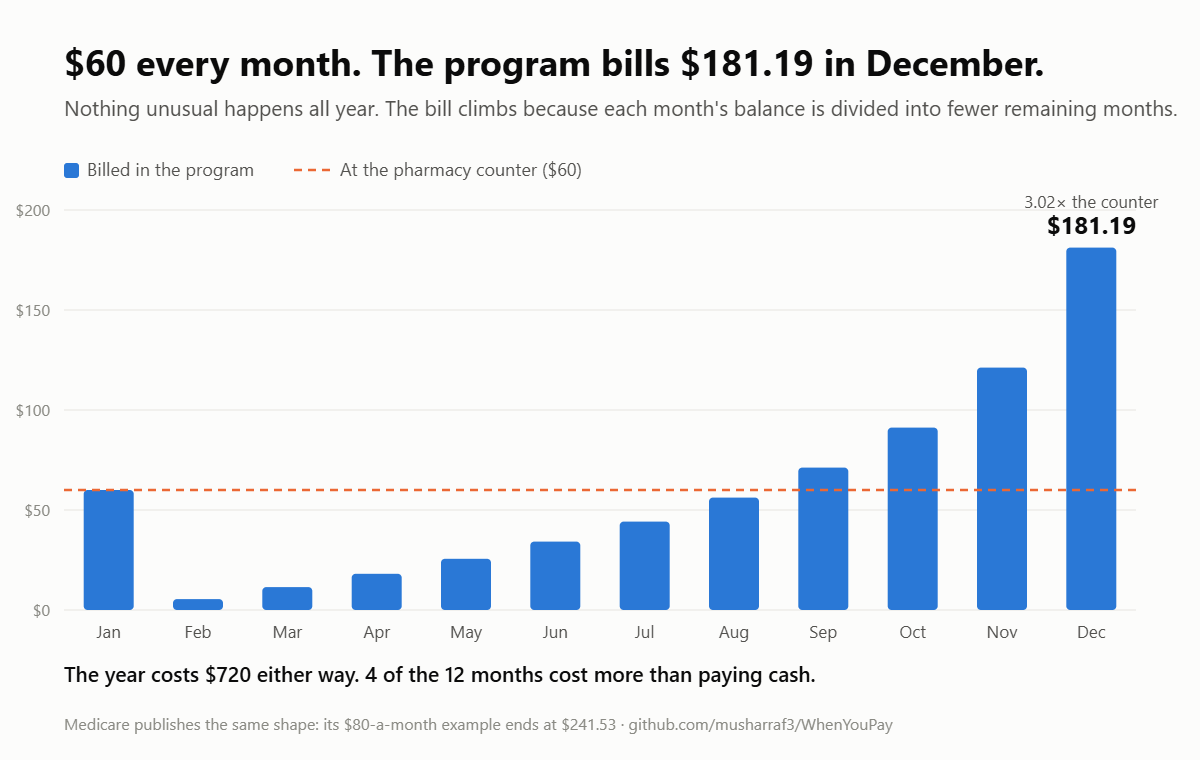
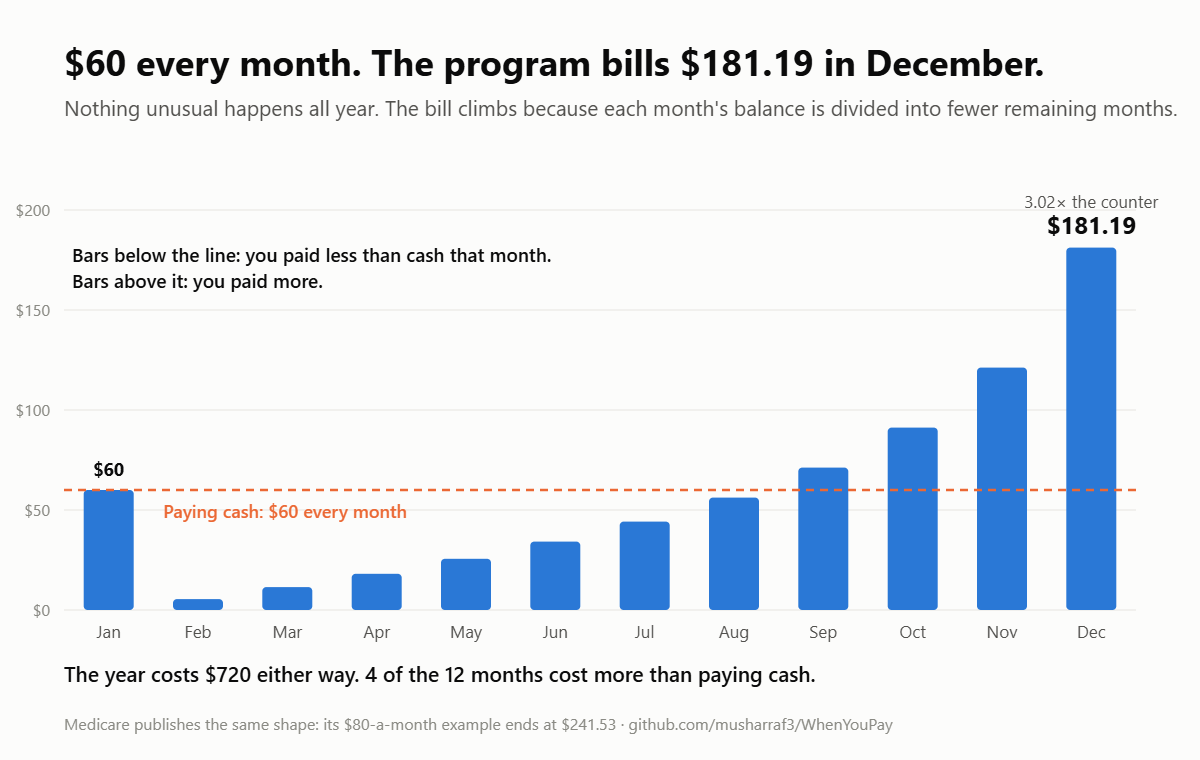
Make both figures readable without the post around them
An image that needs its caption is not doing its job. Both charts now carry
their own explanation.

Calendar figure: names what the y-axis measures ("Highest single month's
bill") rather than assuming the reader infers it.

Cliff figure:
- the reference line is labelled on the chart instead of in a legend key, and
  the legend is gone with it;
- the encoding is stated in the empty upper-left ("bars below the line: you
  paid less than cash that month; above it: you paid more"), because a dashed
  line means nothing until you say which side is which;
- January carries its value, so the bar sitting exactly on the line reads as
  "same as cash" without a caption. That coincidence explains the flat first
  month better than the note that used to collide with it.

Label placement is now chosen around the bars rather than in spite of them:
the line label sits under the line between February and June, the only band
in that chart no bar reaches.

diff --git a/figures/make_figures.py b/figures/make_figures.py
@@ -73,6 +73,9 @@ def calendar_figure() -> str:
         "github.com/musharraf3/WhenYouPay",
     )
 
+    s.append(f'<text x="{x0-72}" y="{y0-14}" font-size="17" font-weight="600" '
+             f'fill="{INK2}">Highest single month&#39;s bill</text>')
+
     for v in (0, 500, 1000, 1500, 2000):
         y = y0 + plot_h - plot_h * v / top
         s.append(f'<line x1="{x0}" y1="{y:.1f}" x2="{x0+plot_w}" y2="{y:.1f}" '
@@ -153,6 +156,10 @@ def cliff_figure() -> str:
         y = y0 + plot_h - bh
         s.append(f'<rect x="{x:.1f}" y="{y:.1f}" width="{bw:.1f}" height="{bh:.1f}" '
                  f'rx="4" fill="{BLUE}"/>')
+        if i == 0:
+            s.append(f'<text x="{x+bw/2:.1f}" y="{y-14:.1f}" font-size="18" '
+                     f'font-weight="700" fill="{INK}" text-anchor="middle">'
+                     f'${amt:,.0f}</text>')
         s.append(f'<text x="{x+bw/2:.1f}" y="{y0+plot_h+28:.1f}" font-size="17" '
                  f'fill="{INK2}" text-anchor="middle">{months[i]}</text>')
 
@@ -160,6 +167,18 @@ def cliff_figure() -> str:
     yc = y0 + plot_h - plot_h * per_month / top
     s.append(f'<line x1="{x0}" y1="{yc:.1f}" x2="{x0+plot_w}" y2="{yc:.1f}" '
              f'stroke="{ORANGE}" stroke-width="2.5" stroke-dasharray="8 6"/>')
+    # under the line, starting after January (whose bar reaches the line) and
+    # ending before July, whose bar climbs back into this band
+    s.append(f'<text x="{x0+slot+10:.1f}" y="{yc+28:.1f}" font-size="18" '
+             f'font-weight="600" fill="{ORANGE}">'
+             f'Paying cash: ${per_month:,.0f} every month</text>')
+
+    # the plot's whole upper-left is empty; spend it explaining the encoding
+    s.append(f'<text x="{x0+8}" y="{y0+52}" font-size="19" font-weight="600" '
+             f'fill="{INK}">Bars below the line: you paid less than cash that '
+             f'month.</text>')
+    s.append(f'<text x="{x0+8}" y="{y0+78}" font-size="19" font-weight="600" '
+             f'fill="{INK}">Bars above it: you paid more.</text>')
 
     # December, direct-labelled because it is the whole point
     xd = x0 + slot * 11 + (slot - bw) / 2
@@ -169,15 +188,6 @@ def cliff_figure() -> str:
              f'${billed[-1]:,.2f}</text>')
     s.append(f'<text x="{xd+bw/2:.1f}" y="{yd-40:.1f}" font-size="17" '
              f'fill="{INK2}" text-anchor="middle">3.02&#215; the counter</text>')
-
-    ly = y0 - 34
-    s.append(f'<rect x="{x0}" y="{ly-13}" width="15" height="15" rx="3" fill="{BLUE}"/>')
-    s.append(f'<text x="{x0+23}" y="{ly}" font-size="18" fill="{INK2}">'
-             f'Billed in the program</text>')
-    s.append(f'<line x1="{x0+230}" y1="{ly-6}" x2="{x0+266}" y2="{ly-6}" '
-             f'stroke="{ORANGE}" stroke-width="2.5" stroke-dasharray="8 6"/>')
-    s.append(f'<text x="{x0+276}" y="{ly}" font-size="18" fill="{INK2}">'
-             f'At the pharmacy counter ($60)</text>')
 
     over = [i for i, a in enumerate(billed) if a > per_month]
 
